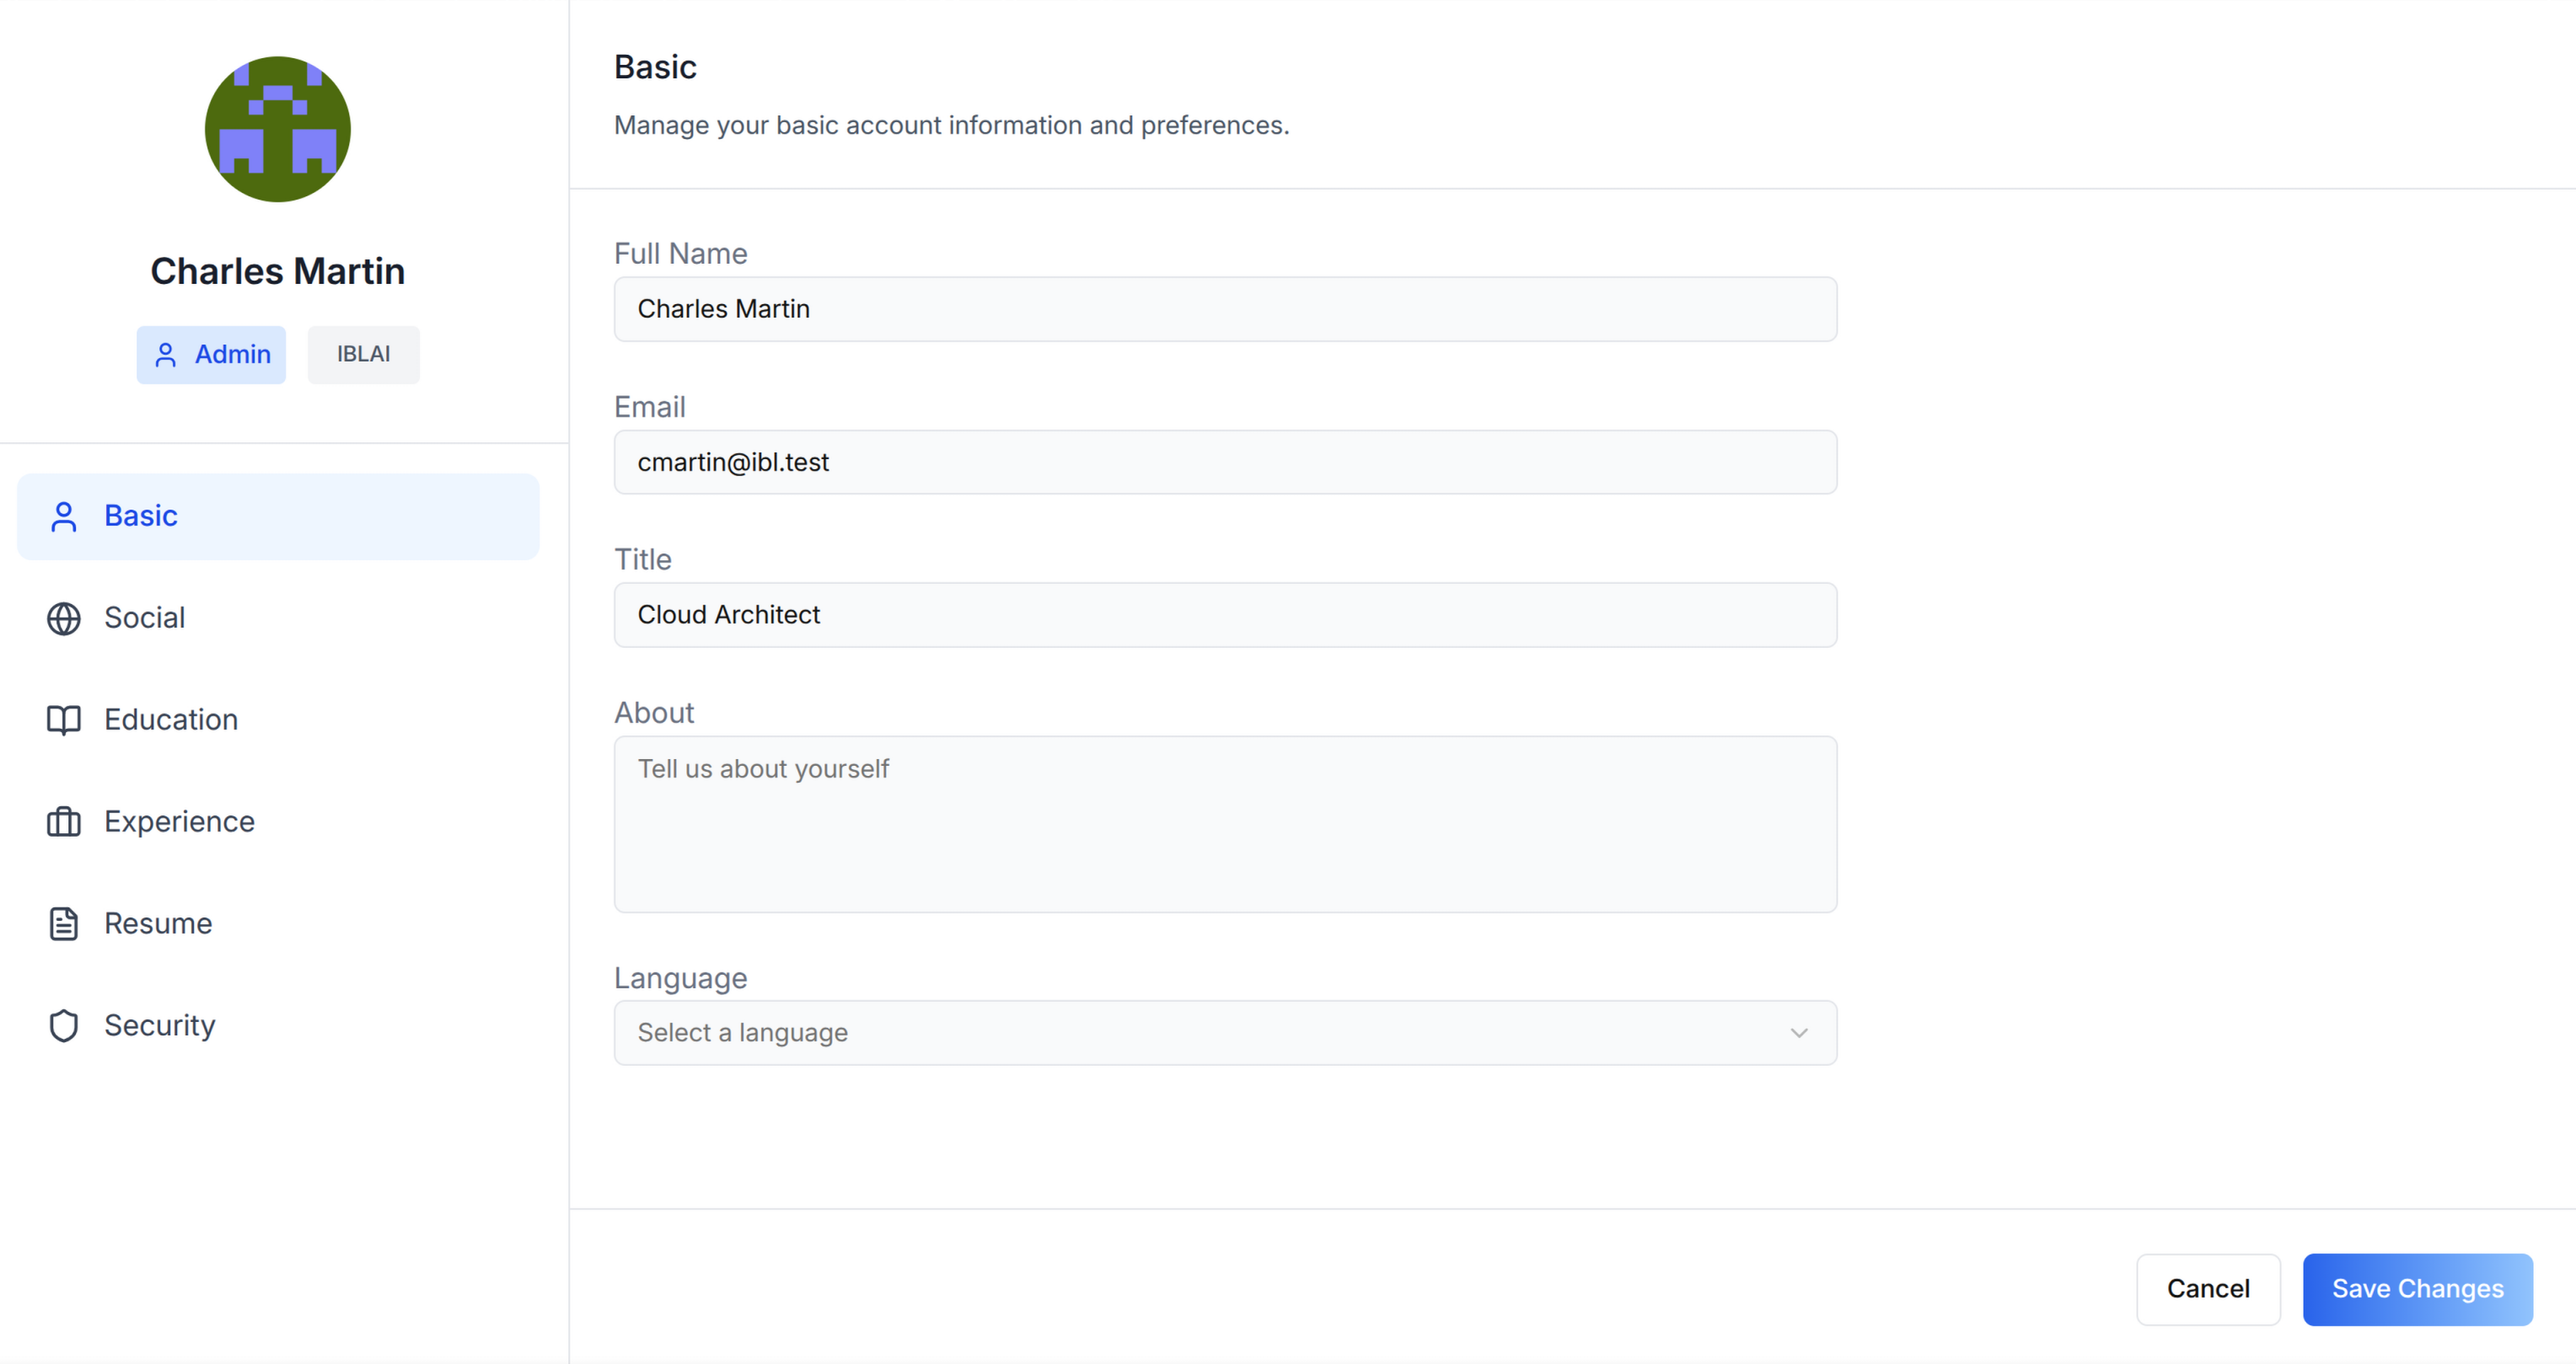
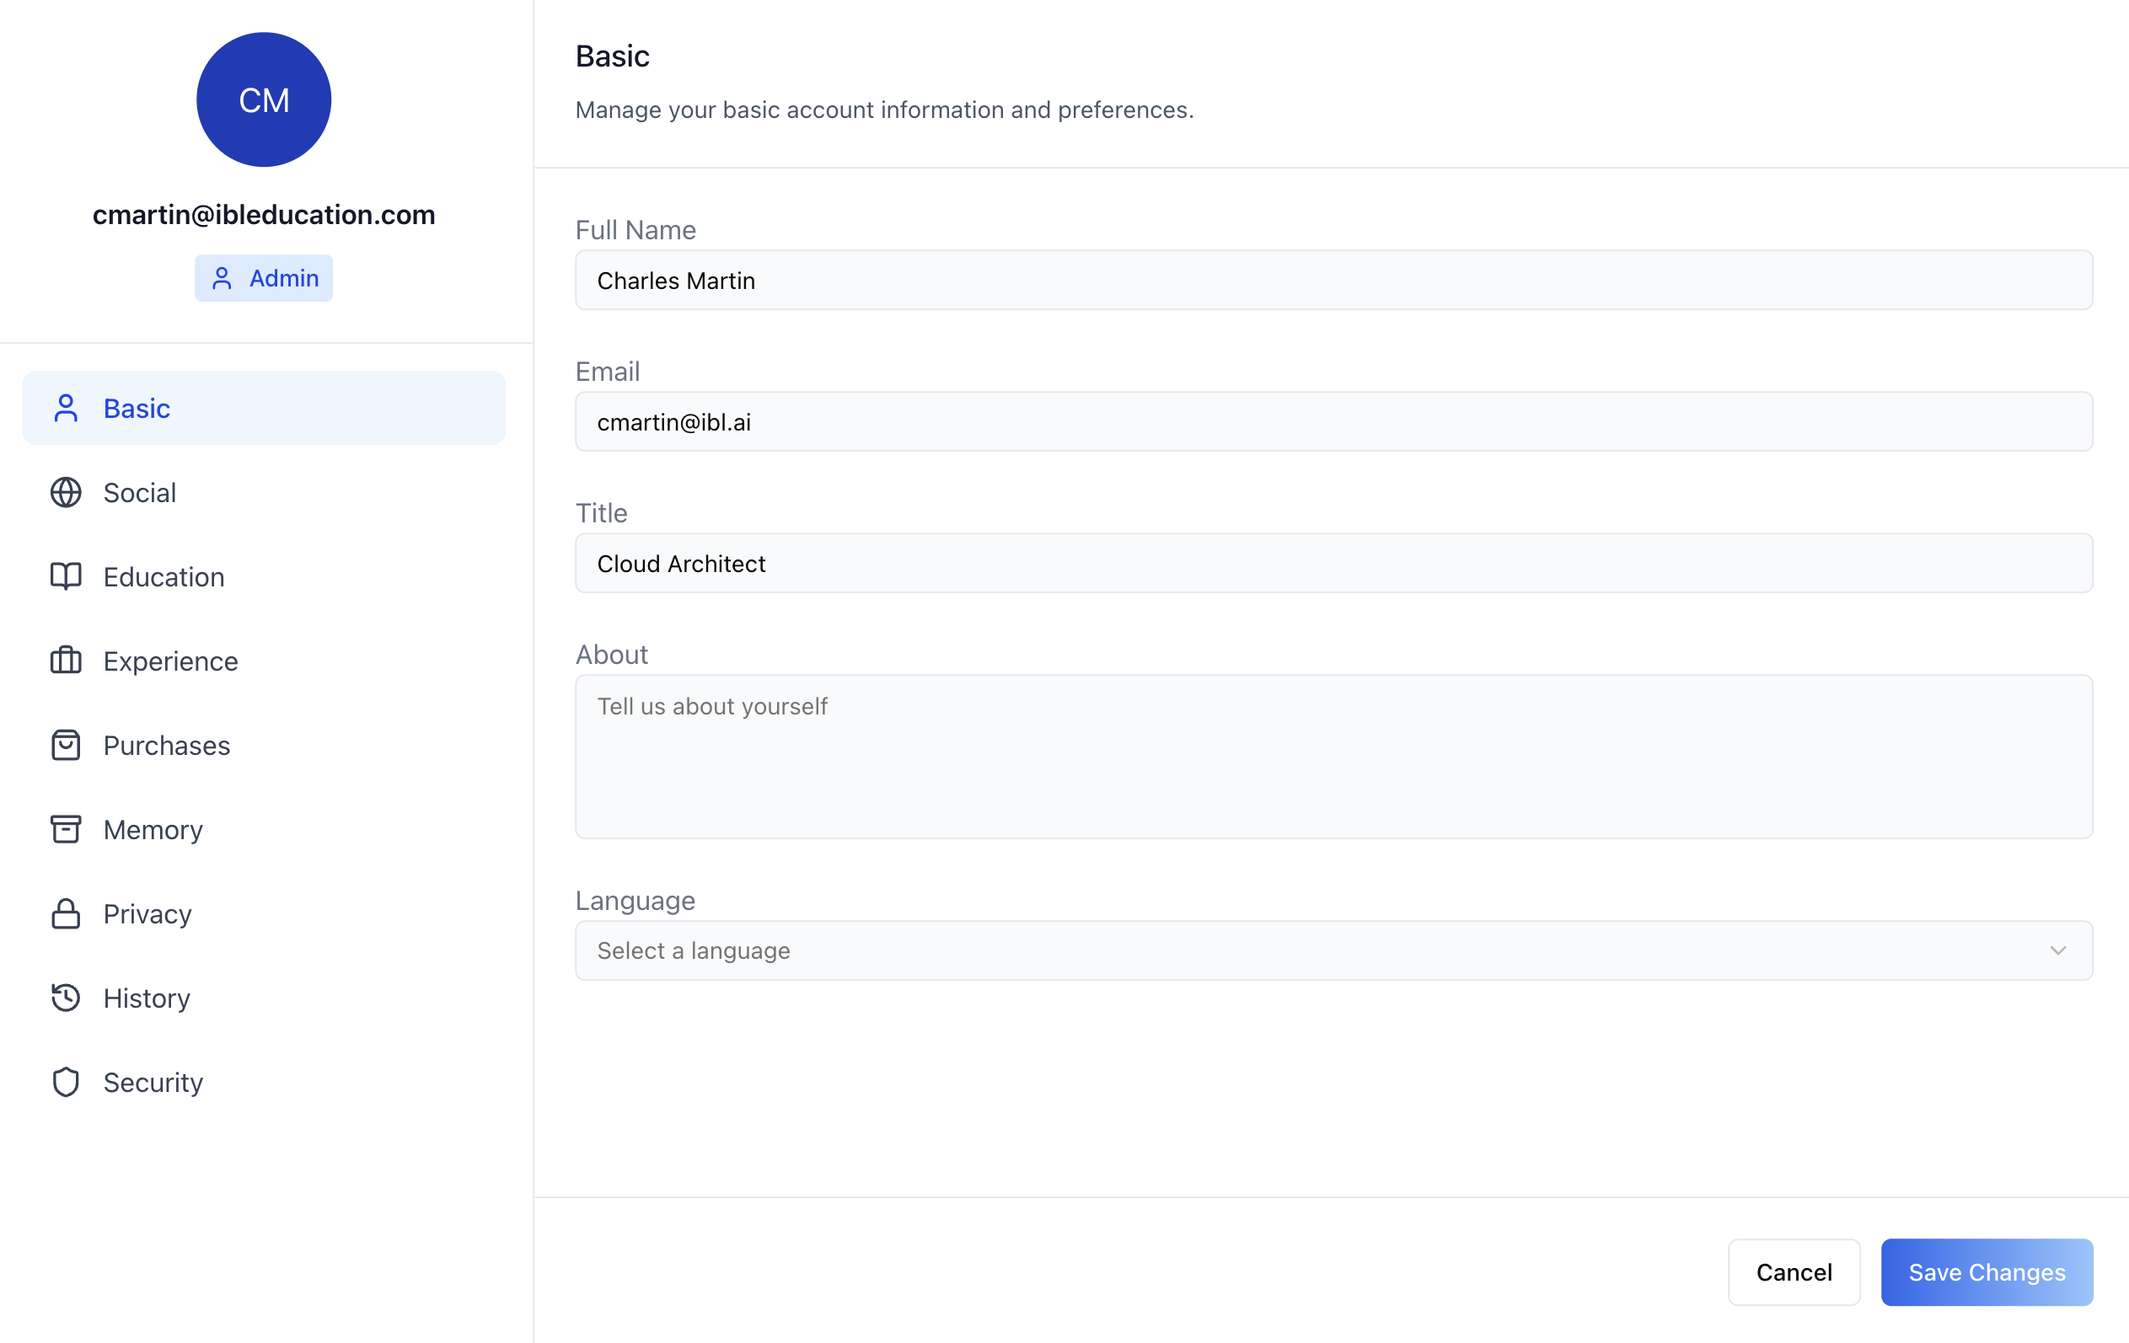
docs(skills): refresh iblai-vibe-profile for the current Profile tabs
- updated profile-page.png to the current sidebar layout
- new Profile tabs table with targetTab ids, per-tenant gating, and
  cross-refs (Memory -> /iblai-vibe-memory, History ->
  /iblai-vibe-history, Advanced -> /iblai-vibe-local-llm)
- corrected targetTab values (gradebook/purchases/memory/privacy/
  chatHistory/advanced; education and experience now carry sub-tabs)
- clarified Billing vs the monetization-gated Purchases tab
- regenerated adapters

diff --git a/skills/iblai-vibe-profile/SKILL.md b/skills/iblai-vibe-profile/SKILL.md
@@ -8,8 +8,10 @@ alwaysApply: false
 # /iblai-vibe-profile
 
 Add user profile features -- a compact avatar dropdown for your navbar and
-a full settings page with tabs for Basic info, Social links, Education,
-Experience, Resume, and Security.
+a full settings page with sidebar tabs for Basic info, Social links,
+Education (with Credentials and Skills sub-tabs), Experience (with a
+Resume sub-tab), Purchases, Memory, Privacy, History, and Security —
+several of them feature-gated per tenant (see the tab table below).
 
 ![Profile Page](https://raw.githubusercontent.com/iblai/vibe/refs/heads/main/skills/iblai-vibe-profile/profile-page.png)
 
@@ -233,6 +235,25 @@ get_component_info("Profile")
 get_component_info("MediaBox")
 get_component_info("ResumeTab")
 ```
+
+## Profile tabs
+
+The sidebar tabs the `Profile` component renders, with the `targetTab`
+id and when each appears:
+
+| Tab | `targetTab` id | Shown when | Notes |
+|---|---|---|---|
+| Basic | `basic` | Always | Full name, email, title, about, language |
+| Social | `social` | Always | Social links |
+| Gradebook | `gradebook` | `customization.showGradebookTab` | Credentials + skills gradebook |
+| Education | `education` | Always | Sub-tabs: Education / Credentials / Skills |
+| Experience | `experience` | Always | Sub-tabs: Experience / Resume |
+| Purchases | `purchases` | Tenant has monetization enabled | Purchase history |
+| Memory | `memory` | `enableMemoryTab` prop AND tenant memsearch on | The user's own global memories + capture/personalization toggles (the admin view of the same data is `/iblai-vibe-memory`) |
+| Privacy | `privacy` | Tenant allows user chat-privacy control | "Private Mode" — see the Chat Privacy Settings API below |
+| History | `chatHistory` | Own profile only (hidden on read-only previews) | Conversations + Exports — documented in `/iblai-vibe-history` |
+| Security | `security` | Own profile only | Password reset, account deletion |
+| Advanced | `advanced` | Tauri desktop with `localLLMProps.isAvailable` | Local LLM models — see `/iblai-vibe-local-llm` |
 
 ---
 
@@ -748,8 +769,8 @@ Import from `@iblai/iblai-js/web-containers`.
 | `isAdmin` | `boolean` | Admin flag |
 | `onClose` | `() => void` | Close callback |
 | `customization` | `object` | See below |
-| `targetTab` | `string` | Initial tab: `basic`, `social`, `education`, `experience`, `resume`, `security` |
-| `enableMemoryTab` | `boolean?` | Show AI memory management tab |
+| `targetTab` | `string` | Initial tab id — see the **Profile tabs** table (`basic`, `social`, `gradebook`, `education`, `experience`, `purchases`, `memory`, `privacy`, `chatHistory`, `security`, `advanced`) |
+| `enableMemoryTab` | `boolean?` | Show the Memory tab (still requires tenant memsearch to be on) |
 | `localLLMProps` | `object?` | Props for local LLM tab (Tauri desktop only) |
 | `onAccountDeleted` | `() => void` | Callback after account deletion |
 
@@ -825,7 +846,12 @@ Run `/iblai-vibe-ops-test` before telling the user the work is ready:
 - **SDK hardcoded styles**: The SDK Profile component uses `bg-white` and
   `bg-gray-50` internally. Do NOT override these. Instead, wrap the component
   in a white container so it renders correctly against the gray page background.
-- **Billing/Purchases**: Lives on the Account page (`/iblai-vibe-account`), not
-  on the Profile page. Use `UserProfileModal` with `targetTab="billing"` and
-  `billingEnabled={true}` to access it from the combined modal.
+- **Billing vs Purchases**: Tenant billing (plan, credits, spend limits)
+  lives on the Account page (`/iblai-vibe-account`, `/iblai-vibe-billing`).
+  The Profile page's own **Purchases** tab shows the user's purchase
+  history and only appears when the tenant has monetization enabled.
+- **Feature-gated tabs**: Memory, Privacy, Purchases, Gradebook, and
+  Advanced only render when their gate is on (see the Profile tabs
+  table) — `targetTab` pointing at a hidden tab falls back to nothing
+  useful, so check the gate before deep-linking.
 - **Brand guidelines**: [BRAND.md](https://raw.githubusercontent.com/iblai/vibe/refs/heads/main/BRAND.md)

diff --git a/adapters/codex/iblai-vibe-profile.md b/adapters/codex/iblai-vibe-profile.md
@@ -5,8 +5,10 @@
 # /iblai-vibe-profile
 
 Add user profile features -- a compact avatar dropdown for your navbar and
-a full settings page with tabs for Basic info, Social links, Education,
-Experience, Resume, and Security.
+a full settings page with sidebar tabs for Basic info, Social links,
+Education (with Credentials and Skills sub-tabs), Experience (with a
+Resume sub-tab), Purchases, Memory, Privacy, History, and Security —
+several of them feature-gated per tenant (see the tab table below).
 
 ![Profile Page](https://raw.githubusercontent.com/iblai/vibe/refs/heads/main/skills/iblai-vibe-profile/profile-page.png)
 
@@ -230,6 +232,25 @@ get_component_info("Profile")
 get_component_info("MediaBox")
 get_component_info("ResumeTab")
 ```
+
+## Profile tabs
+
+The sidebar tabs the `Profile` component renders, with the `targetTab`
+id and when each appears:
+
+| Tab | `targetTab` id | Shown when | Notes |
+|---|---|---|---|
+| Basic | `basic` | Always | Full name, email, title, about, language |
+| Social | `social` | Always | Social links |
+| Gradebook | `gradebook` | `customization.showGradebookTab` | Credentials + skills gradebook |
+| Education | `education` | Always | Sub-tabs: Education / Credentials / Skills |
+| Experience | `experience` | Always | Sub-tabs: Experience / Resume |
+| Purchases | `purchases` | Tenant has monetization enabled | Purchase history |
+| Memory | `memory` | `enableMemoryTab` prop AND tenant memsearch on | The user's own global memories + capture/personalization toggles (the admin view of the same data is `/iblai-vibe-memory`) |
+| Privacy | `privacy` | Tenant allows user chat-privacy control | "Private Mode" — see the Chat Privacy Settings API below |
+| History | `chatHistory` | Own profile only (hidden on read-only previews) | Conversations + Exports — documented in `/iblai-vibe-history` |
+| Security | `security` | Own profile only | Password reset, account deletion |
+| Advanced | `advanced` | Tauri desktop with `localLLMProps.isAvailable` | Local LLM models — see `/iblai-vibe-local-llm` |
 
 ---
 
@@ -745,8 +766,8 @@ Import from `@iblai/iblai-js/web-containers`.
 | `isAdmin` | `boolean` | Admin flag |
 | `onClose` | `() => void` | Close callback |
 | `customization` | `object` | See below |
-| `targetTab` | `string` | Initial tab: `basic`, `social`, `education`, `experience`, `resume`, `security` |
-| `enableMemoryTab` | `boolean?` | Show AI memory management tab |
+| `targetTab` | `string` | Initial tab id — see the **Profile tabs** table (`basic`, `social`, `gradebook`, `education`, `experience`, `purchases`, `memory`, `privacy`, `chatHistory`, `security`, `advanced`) |
+| `enableMemoryTab` | `boolean?` | Show the Memory tab (still requires tenant memsearch to be on) |
 | `localLLMProps` | `object?` | Props for local LLM tab (Tauri desktop only) |
 | `onAccountDeleted` | `() => void` | Callback after account deletion |
 
@@ -822,7 +843,12 @@ Run `/iblai-vibe-ops-test` before telling the user the work is ready:
 - **SDK hardcoded styles**: The SDK Profile component uses `bg-white` and
   `bg-gray-50` internally. Do NOT override these. Instead, wrap the component
   in a white container so it renders correctly against the gray page background.
-- **Billing/Purchases**: Lives on the Account page (`/iblai-vibe-account`), not
-  on the Profile page. Use `UserProfileModal` with `targetTab="billing"` and
-  `billingEnabled={true}` to access it from the combined modal.
+- **Billing vs Purchases**: Tenant billing (plan, credits, spend limits)
+  lives on the Account page (`/iblai-vibe-account`, `/iblai-vibe-billing`).
+  The Profile page's own **Purchases** tab shows the user's purchase
+  history and only appears when the tenant has monetization enabled.
+- **Feature-gated tabs**: Memory, Privacy, Purchases, Gradebook, and
+  Advanced only render when their gate is on (see the Profile tabs
+  table) — `targetTab` pointing at a hidden tab falls back to nothing
+  useful, so check the gate before deep-linking.
 - **Brand guidelines**: [BRAND.md](https://raw.githubusercontent.com/iblai/vibe/refs/heads/main/BRAND.md)
